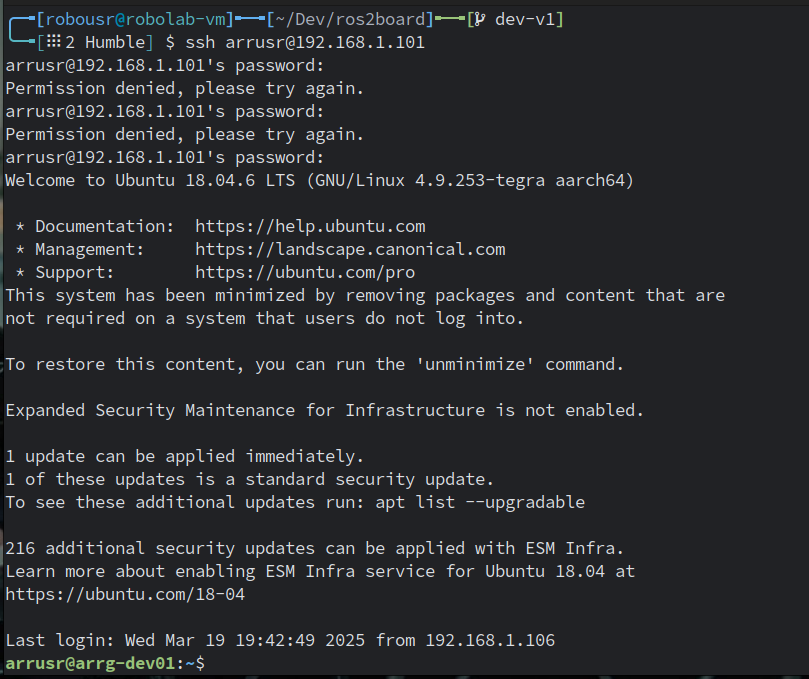
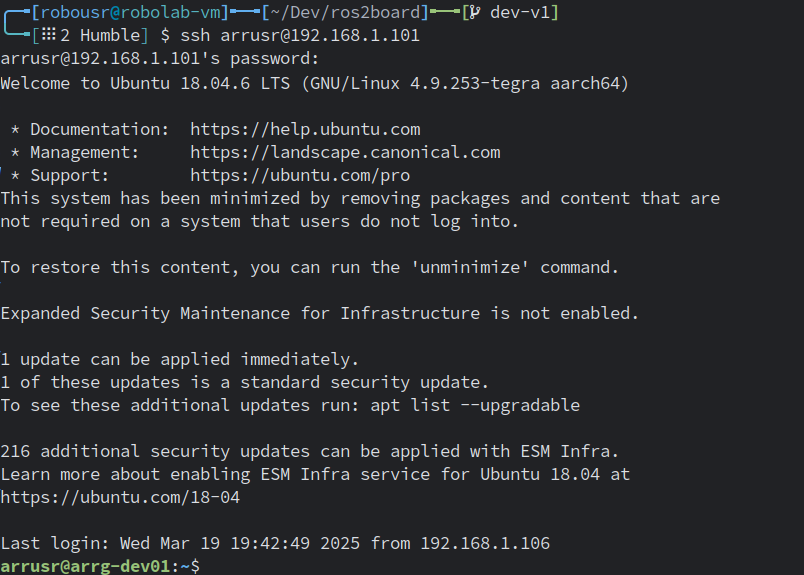
Updated SSH_en_ROS2 and Net_Tools files and related images.

diff --git a/docs/Networking/SSH_en_ROS2.md b/docs/Networking/SSH_en_ROS2.md
@@ -12,37 +12,38 @@ SSH permite controlar un dispositivo de forma remota a través de una conexión 
 - **Monitoreo y depuración en tiempo real:** Se pueden visualizar logs y ejecutar herramientas de diagnóstico sin estar físicamente presente.  
 
 **Ejemplo de aplicación**:  
-- Un investigador está en su computadora (**hostname: robolab_vm**, **IP: 192.168.1.100**) y necesita conectarse al robot (**hostname: dofbot_x**, **IP: 192.168.1.103**, usuario: `arrgusr`) para ejecutar nodos de ROS 2.  
+- Un investigador está en su computadora (**hostname: robolab-vm**, **IP: 192.168.1.106**) y necesita conectarse al robot (**hostname: arrg-dev01**, **IP: 192.168.1.101**, usuario: `arrusr`) para ejecutar nodos de ROS 2.  
 
 ## Conexión a un Robot con SSH
 
-Para establecer la conexión SSH, en la terminal del host (**robolab_vm**), ejecuta:  
+Para establecer la conexión SSH, en la terminal del host (**robolab-vm**), ejecuta:  
 
 ```bash
-ssh arrgusr@192.168.1.103
+ssh arrusr@192.168.1.101
 ```
 
 **Salida esperada en la primera conexión**:  
 
 ```console
-The authenticity of host '192.168.1.103 (192.168.1.103)' can't be established.
+The authenticity of host '192.168.1.101 (192.168.1.101)' can't be established.
 ECDSA key fingerprint is SHA256:abc123xyz456...
 Are you sure you want to continue connecting (yes/no)? yes
 ```
 
-Tras aceptar la conexión (`yes`), se pedirá la contraseña del usuario **arrgusr**.  
+Tras aceptar la conexión (`yes`), se pedirá la contraseña del usuario **arrusr**.  
 
 **Si la conexión es exitosa, la terminal cambiará a la del robot:**  
 
 ```console
-arrgusr@dofbot_x:~$
+arrusr@arrg-dev01:~$
 ```
-
 Ahora puedes ejecutar comandos en el robot de forma remota.  
+
+![](../images/ssh_conn_host.png)
 
 ## Ejecutar Nodos ROS 2 en el Robot desde SSH**  
 
-Una vez conectado al robot (**dofbot_x**), puedes iniciar ROS 2 y lanzar nodos.  
+Una vez conectado al robot (**arrg-dev01**), puedes iniciar ROS 2 y lanzar nodos.  
 
 **Ejemplo**: Ejecutar un nodo ROS 2 en el robot
 
@@ -56,18 +57,18 @@ ros2 run demo_nodes_cpp talker
 ros2 node list
 ```
 
-**Si otros nodos están corriendo en la red (por ejemplo, en `robolab_vm`), deberían aparecer en la lista**.  
+**Si otros nodos están corriendo en la red (por ejemplo, en `robolab-vm`), deberían aparecer en la lista**.  
 
 Si la conexión falla, verifica:  
-- Que ambos dispositivos estén en la misma red (`ping 192.168.1.103`).  
+- Que ambos dispositivos estén en la misma red (`ping 192.168.1.101`).  
 - Que el servicio SSH esté corriendo en el robot (`sudo systemctl status ssh`).  
 - Que el puerto 22 esté abierto en el firewall (`sudo ufw allow 22/tcp`).  
 
 ## Conexión SSH sin contraseña con claves SSH
 
-Para evitar ingresar la contraseña en cada conexión, se pueden generar **claves SSH** en el host (**robolab_vm**) y transferirlas al robot (**dofbot_x**).  
+Para evitar ingresar la contraseña en cada conexión, se pueden generar **claves SSH** en el host (**robolab-vm**) y transferirlas al robot (**arrg-dev01**).  
 
-**Generar la clave SSH en `robolab_vm`**  
+**Generar la clave SSH en `robolab-vm`**  
 
 ```bash
 ssh-keygen -t rsa -b 4096
@@ -75,10 +76,10 @@ ssh-keygen -t rsa -b 4096
 
 **Presionar Enter en todas las preguntas** para aceptar los valores predeterminados.  
 
-**Copiar la clave al robot (`dofbot_x`)**  
+**Copiar la clave al robot (`arrg-dev01`)**  
 
 ```bash
-ssh-copy-id arrgusr@192.168.1.103
+ssh-copy-id arrusr@192.168.1.101
 ```
 
 Se pedirá la contraseña solo esta vez.  
@@ -86,31 +87,31 @@ Se pedirá la contraseña solo esta vez.
 **Verificar la conexión sin contraseña**  
 
 ```bash
-ssh arrgusr@192.168.1.103
+ssh arrusr@192.168.1.101
 ```
 
 Ahora la conexión SSH será automática.  
 
 ## Transferencia de Archivos entre el Host y el Robot
 
-Para copiar archivos entre el **host (`robolab_vm`)** y el **robot (`dofbot_x`)**, se usa `scp` o `rsync`.  
+Para copiar archivos entre el **host (`robolab-vm`)** y el **robot (`arrg-dev01`)**, se usa `scp` o `rsync`.  
 
-**Ejemplo**: Transferir un script desde `robolab_vm` al robot
+**Ejemplo**: Transferir un script desde `robolab-vm` al robot
 
 ```bash
-scp mi_script.py arrgusr@192.168.1.103:/home/arrgusr/
+scp mi_script.py arrusr@192.168.1.101:/home/arrusr/
 ```
 
 **Ejemplo**: Transferir un archivo desde el robot al host
 
 ```bash
-scp arrgusr@192.168.1.103:/home/arrgusr/datos.txt .
+scp arrusr@192.168.1.101:/home/arrusr/datos.txt .
 ```
 
 Para copiar carpetas grandes de forma eficiente, usa `rsync`:  
 
 ```bash
-rsync -avz /path/local/ arrgusr@192.168.1.103:/path/remoto/
+rsync -avz /path/local/ arrusr@192.168.1.101:/path/remoto/
 ```
 
 ## Uso Avanzado: Ejecutar ROS 2 desde SSH sin Sesión Activa
@@ -137,7 +138,7 @@ Luego, se puede desconectar de `tmux` con `Ctrl + B` y `D`, dejando el nodo corr
 | **Problema** | **Posible Solución** |
 |-------------|----------------------|
 | `ssh: connection refused` | Verificar que SSH esté activo en el robot (`sudo systemctl start ssh`). |
-| `ssh: No route to host` | Asegurar que el robot esté en la misma red (`ping 192.168.1.103`). |
+| `ssh: No route to host` | Asegurar que el robot esté en la misma red (`ping 192.168.1.101`). |
 | No se ven nodos ROS 2 tras conectarse | Configurar el mismo `ROS_DOMAIN_ID` en ambos dispositivos. |
 | `scp` falla | Verificar permisos de escritura en la carpeta de destino. |
 | SSH lento en conexión | Editar `/etc/ssh/sshd_config` y desactivar `UseDNS`. |

diff --git a/docs/Networking/Net_Tools.md b/docs/Networking/Net_Tools.md
@@ -24,7 +24,9 @@ ip a
     link/ether 00:1a:2b:3c:4d:5e brd ff:ff:ff:ff:ff:ff
     inet 192.168.0.20/24 brd 192.168.0.255 scope global dynamic ens33
 ```
-**Importancia en ROS 2**: Asegurarse de que la interfaz de red correcta esté activa y tenga una dirección en la subred esperada.  
+**Importancia en ROS 2**: Asegurarse de que la interfaz de red correcta esté activa y tenga una dirección en la subred esperada.
+
+![](../images/ip_address_output.png)
 
 ## Comprobación de Conectividad con `ping`
 
@@ -87,7 +89,9 @@ Nmap scan report for 192.168.0.10 (Robot)
 Nmap scan report for 192.168.0.20 (Laptop)
 ```
 
-**Importancia en ROS 2**: Verifica qué dispositivos están activos y si un nodo específico está en la red.  
+**Importancia en ROS 2**: Verifica qué dispositivos están activos y si un nodo específico está en la red.
+
+![](../images/nmap_output.png)
 
 ## Medición del Ancho de Banda con `iperf3`
 
